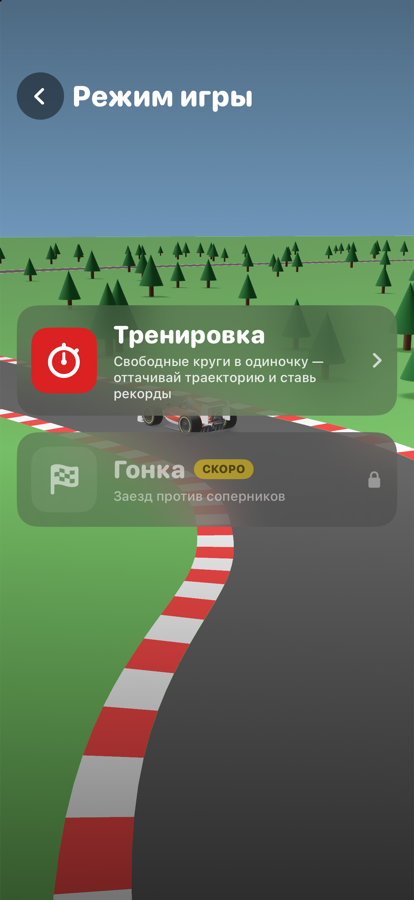
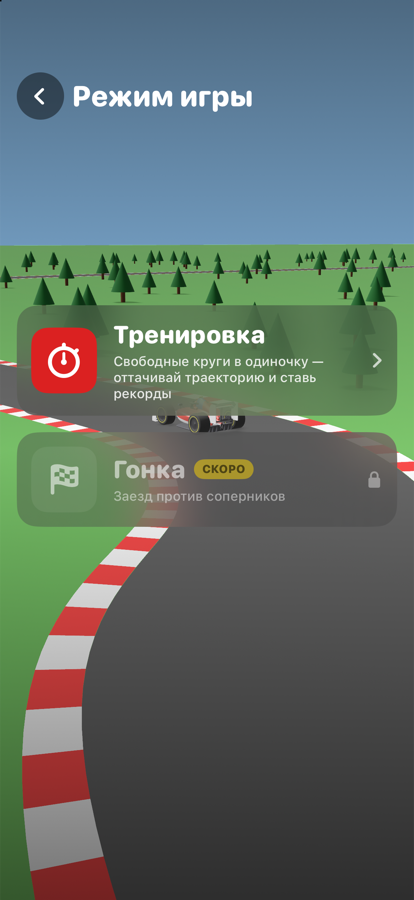
Отсечки секторов на трассе, новые скриншоты в README
- Жёлтые полосы поперёк асфальта на границах секторов (те же отсечки, что в зачёте и на мини-карте)
- Аргумент -screen settings для скриншота настроек
- README: обновлены все скриншоты, добавлены настройки и призрак с временем сектора

diff --git a/RaceGame/Track.swift b/RaceGame/Track.swift
@@ -250,6 +250,22 @@ struct Track {
         add(mesh(fromQuads: whiteCells), white, to: root)
         add(mesh(fromQuads: blackCells), black, to: root)
 
+        // Отсечки секторов (те же, что в LapTimer и на мини-карте) — жёлтые полосы поперёк асфальта.
+        let yellow = SimpleMaterial(color: UIColor(red: 1, green: 0.82, blue: 0.2, alpha: 1), roughness: 0.8, isMetallic: false)
+        var sectorLines: [[SIMD3<Float>]] = []
+        for k in 1..<LapTimer.sectorCount {
+            let i = points.count * k / LapTimer.sectorCount
+            let p = points[i], t = tangents[i], nrm = normals[i]
+            let offsets: [(Float, Float)] = [(-0.6, -halfWidth), (0.6, -halfWidth), (0.6, halfWidth), (-0.6, halfWidth)]
+            var corners: [SIMD3<Float>] = []
+            for (u, v) in offsets {
+                let q: SIMD2<Float> = p + t * u + nrm * v
+                corners.append(SIMD3(q.x, 0.05, q.y))
+            }
+            sectorLines.append(corners)
+        }
+        add(mesh(fromQuads: sectorLines), yellow, to: root)
+
         addTrees(to: root)
         return root
     }

diff --git a/RaceGame/RaceGameApp.swift b/RaceGame/RaceGameApp.swift
@@ -78,7 +78,8 @@ extension Screen {
 struct MenuView: View {
     let onPlay: () -> Void
     @State private var muted = RaceAudio.isMuted
-    @State private var showSettings = false
+    /// `-screen settings` — открыть меню сразу с настройками (для скриншотов).
+    @State private var showSettings = ProcessInfo.processInfo.arguments.contains("settings")
 
     var body: some View {
         VStack(spacing: 0) {

diff --git a/README.md b/README.md
@@ -5,14 +5,16 @@
 траекторию и тормозит.
 
 <p align="center">
-  <img src="docs/screenshots/menu.png" width="250" alt="Главное меню">
-  <img src="docs/screenshots/modes.png" width="250" alt="Выбор режима">
-  <img src="docs/screenshots/tracks.png" width="250" alt="Выбор трассы">
+  <img src="docs/screenshots/menu.png" width="200" alt="Главное меню">
+  <img src="docs/screenshots/modes.png" width="200" alt="Выбор режима">
+  <img src="docs/screenshots/tracks.png" width="200" alt="Выбор трассы">
+  <img src="docs/screenshots/settings.png" width="200" alt="Настройки">
 </p>
 <p align="center">
-  <img src="docs/screenshots/monza.png" width="250" alt="Монца">
-  <img src="docs/screenshots/nordschleife.png" width="250" alt="Нордшляйфе">
-  <img src="docs/screenshots/spa.png" width="250" alt="Спа">
+  <img src="docs/screenshots/ghost.png" width="200" alt="Призрак лучшего круга и время сектора">
+  <img src="docs/screenshots/monza.png" width="200" alt="Монца">
+  <img src="docs/screenshots/nordschleife.png" width="200" alt="Нордшляйфе">
+  <img src="docs/screenshots/spa.png" width="200" alt="Спа">
 </p>
 
 ## Что есть в игре
@@ -27,6 +29,7 @@
 - **Настройки выезда за трассу** (шестерёнка в меню): не засчитывать круг или игнорировать выезды;
   опционально — возвращать машину на трассу (затемнение на секунду, штраф +2 с к кругу).
 - **Время по секторам:** на каждой отсечке и на финише — разница с лучшим кругом («−0.32» зелёным, «+0.15» красным).
+  Отсечки отмечены жёлтыми полосами на трассе и штрихами на мини-карте.
 - **Призрак лучшего круга:** полупрозрачная машина и точка на мини-карте повторяют рекорд трассы.
 - **Режим «Тренировка»** со статистикой: лучший круг и число кругов по каждой трассе сохраняются.
   Режим «Гонка» — в планах.
@@ -50,7 +53,7 @@
 | `-track oval\|monza\|spa\|nordschleife` | трасса для `-autopilot` |
 | `-reverse` | демо-палец едет против хода трассы |
 | `-wobble` | демо-палец «дрожит» — проверка сглаживания линии |
-| `-screen mode\|select` | открыть сразу выбор режима или трассы |
+| `-screen mode\|select\|settings` | открыть сразу выбор режима, трассы или настройки |
 | `-drift` | демо-палец раз за круг уводит машину на траву (проверка выездов) |
 | `-settings.resetToTrack YES`, `-settings.offTrackRule ignore` | включить настройки выезда без меню |
 | `-resetRecords` | сбросить рекорд, сектора и призрак открываемой трассы |
